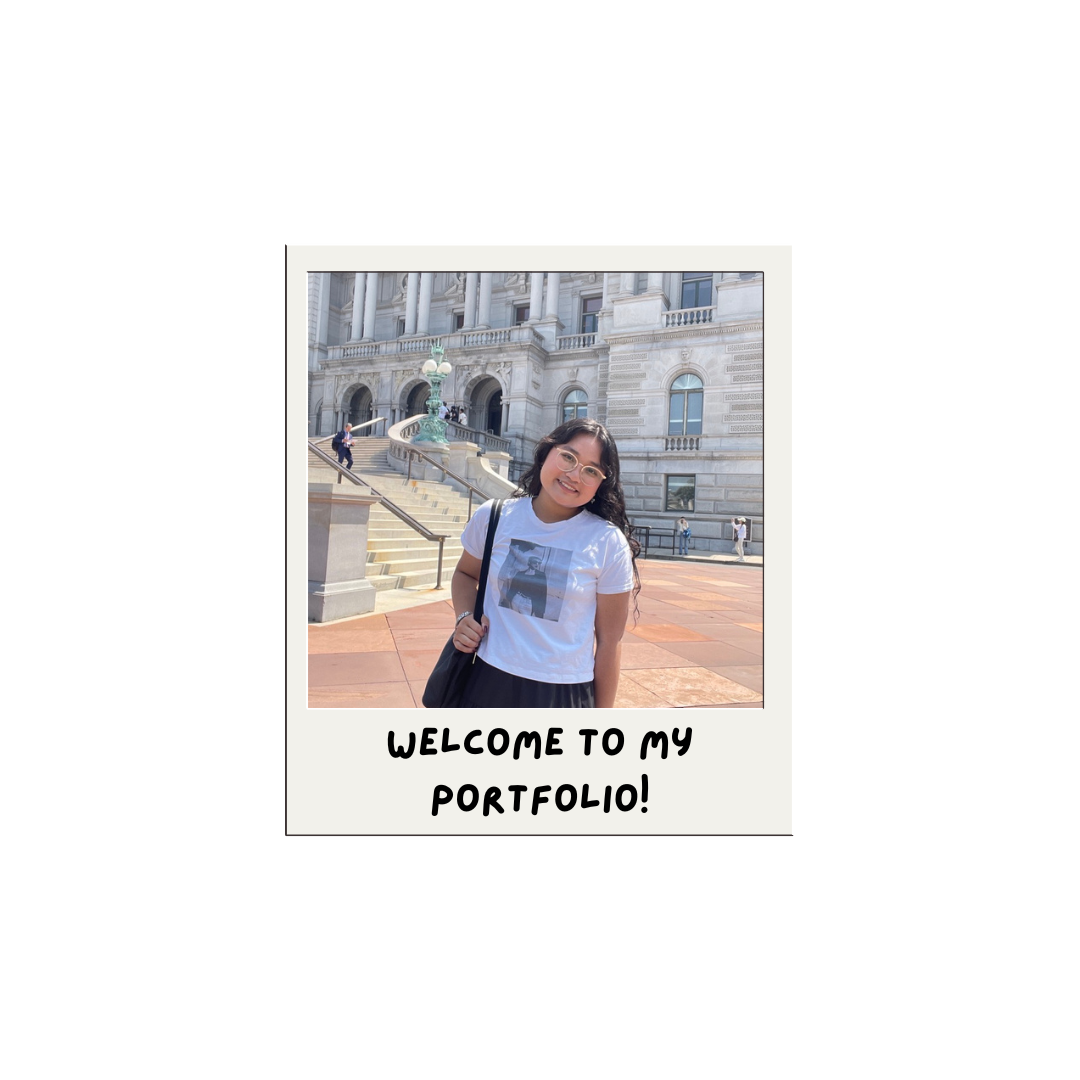
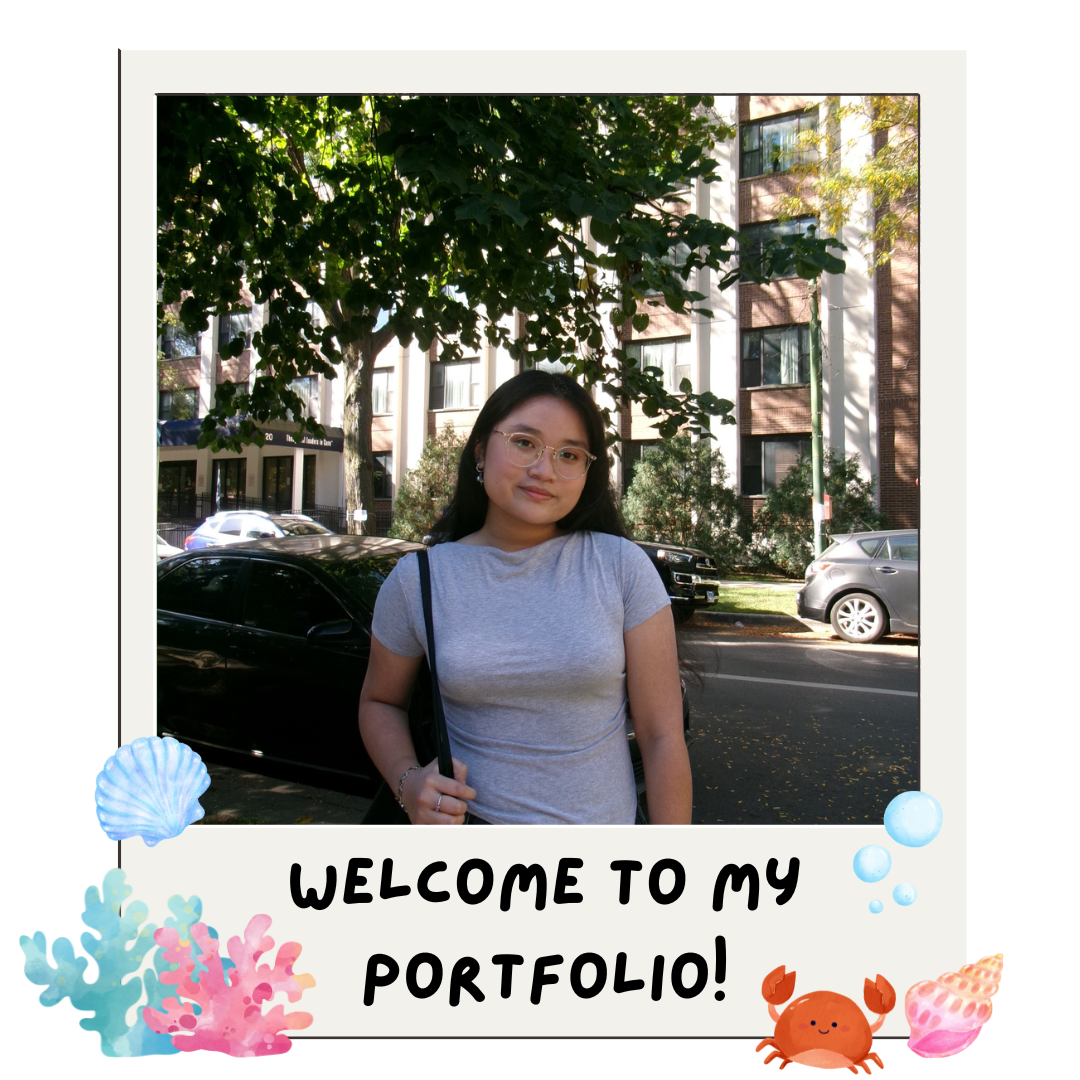
home page fixed

diff --git a/src/components/sections/Home.jsx b/src/components/sections/Home.jsx
@@ -12,52 +12,50 @@ export const Home = () => {
           {/* LEFT COLUMN */}
           <div className="relative flex flex-col items-center justify-center text-center translate-y-4 sm:translate-y-6">
             {/* TEXT ABOVE IMAGE */}
-            <div className="absolute -top-8 md:-top-12 z-10 w-full flex flex-col items-center">
-              <h1 className="text-5xl md:text-6xl font-bold text-[#041a38] leading-tight">
+            <div className="flex flex-col items-center mb-10 md:mb-12">
+            <h1 className="text-5xl md:text-6xl font-bold text-[#041a38] leading-tight">
                 welcome to my portfolio
-              </h1>
-              <p className="text-gray-700 text-2xl mt-3">
-                I'm glad you're here!
-              </p>
+            </h1>
             </div>
 
             {/* IMAGE BELOW */}
             <img
-              src={homeAva}
-              alt="avatar"
-              className="w-[20rem] sm:w-[24rem] md:w-[28rem] lg:w-[30rem] h-auto object-cover rounded-2xl mt-24"
+            src={homeAva}
+            alt="avatar"
+            className="w-[16rem] sm:w-[20rem] md:w-[22rem] lg:w-[24rem] h-auto object-cover rounded-2xl transform animate-float"
             />
           </div>
 
           {/* RIGHT COLUMN */}
-          <nav className="flex flex-col items-center justify-center gap-8 text-3xl font-pixelify text-center translate-y-4 sm:translate-y-6">
-            <a
-              href="#projects"
-              className="text-[#041a38] hover:text-rose-700 transition"
-            >
-              projects
-            </a>
-            <a
-              href="https://drive.google.com/file/d/1zxF_td3WLaTobiZpPT_2bt_ZAyrJhO4T/view?usp=sharing"
-              target="_blank"
-              rel="noopener noreferrer"
-              className="text-[#041a38] hover:text-rose-700 transition"
-            >
-              resume
-            </a>
-            <a
-              href="#about"
-              className="text-[#041a38] hover:text-rose-700 transition"
-            >
-              about
-            </a>
-            <a
-              href="#contact"
-              className="text-[#041a38] hover:text-rose-700 transition"
-            >
-              contact
-            </a>
-          </nav>
+        <nav className="flex flex-col items-center justify-center gap-6 text-3xl font-pixelify text-center p-6 md:p-8">
+        <p className="text-[#041a38] transition">I'm glad you're here!</p>
+        <a
+            href="#projects"
+            className="text-[#041a38] hover:text-rose-700 transition"
+        >
+            🐟 projects 🐟 
+        </a>
+        <a
+            href="https://drive.google.com/file/d/1zxF_td3WLaTobiZpPT_2bt_ZAyrJhO4T/view?usp=sharing"
+            target="_blank"
+            rel="noopener noreferrer"
+            className="text-[#041a38] hover:text-rose-700 transition"
+        >
+            🐙 resume 🐙 
+        </a>
+        <a
+            href="#about"
+            className="text-[#041a38] hover:text-rose-700 transition"
+        >
+            🐚 about 🐚
+        </a>
+        <a
+            href="#contact"
+            className="text-[#041a38] hover:text-rose-700 transition"
+        >
+            🦦 contact 🦦
+        </a>
+        </nav>
         </div>
       </RevealOnScroll>
     </section>

diff --git a/src/App.css b/src/App.css
@@ -1,0 +1,12 @@
+@keyframes float {
+  0%, 100% {
+    transform: rotate(3deg) translateY(0);
+  }
+  50% {
+    transform: rotate(-3deg) translateY(-10px);
+  }
+}
+
+.animate-float {
+  animation: float 2s ease-in-out infinite;
+}
